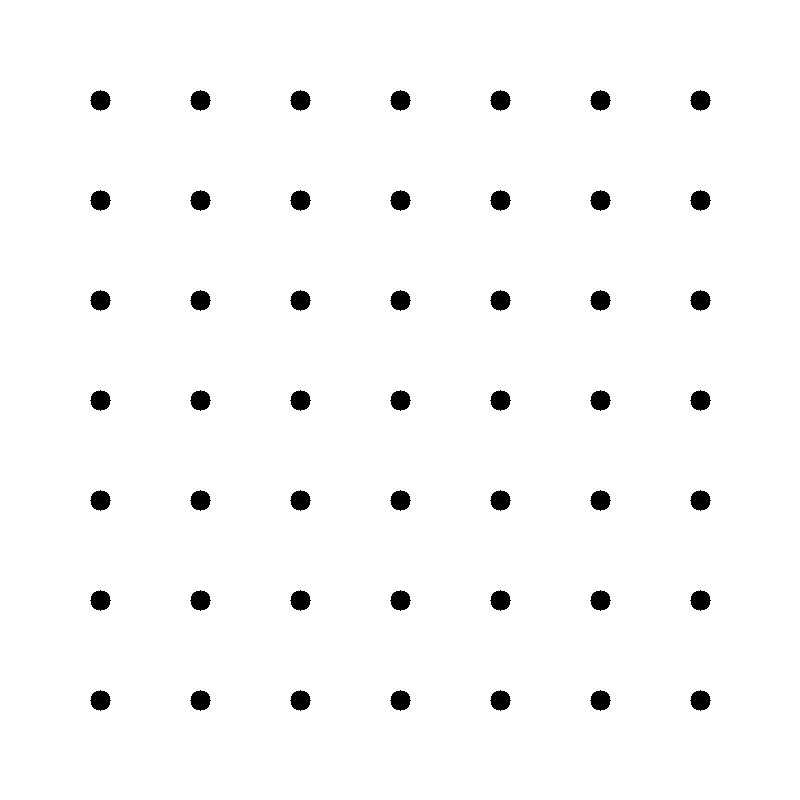
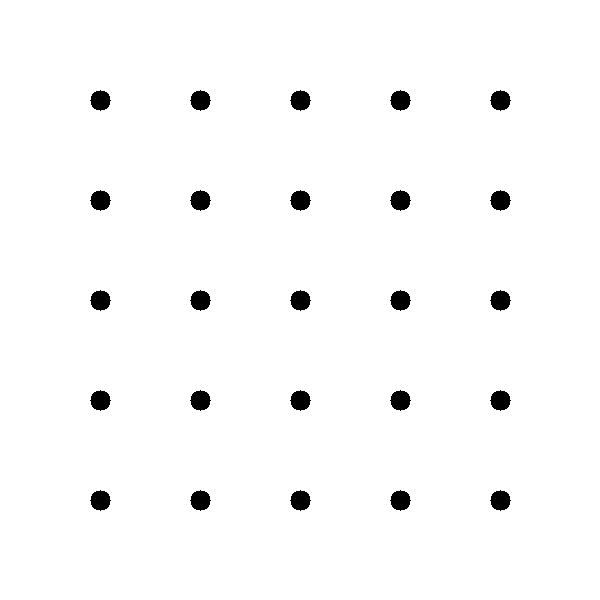
day 1 journal final

diff --git a/src/fake_generator.py b/src/fake_generator.py
@@ -12,6 +12,6 @@ def make_dot_grid(n, spacing=100, margin=100, radius=10):
     return img
 
 if __name__ == "__main__":
-    img = make_dot_grid(7)
+    img = make_dot_grid(5)
     cv2.imwrite("data/fake_5x5.png", img)
-    print("saved. True dot count =", 7* 7)
+    print("saved. True dot count =", 5* 5)

diff --git a/docs/journal/day1.md b/docs/journal/day1.md
@@ -2,8 +2,6 @@
 
 Project: Kolam AI | Course: Societal Based Mini Project (24AIM57) | Student: Tejasree E
 
-> Draft. Fill the one [bracket] left, then rewrite any line in your own words.
-
 ## 1. Goal of today
 
 - Set up the project and get a small dataset
@@ -20,13 +18,13 @@ Project: Kolam AI | Course: Societal Based Mini Project (24AIM57) | Student: Tej
 
 ## 3. How it works in plain words
 
-- The computer turns the picture grey, then blurs it a little so tiny specks vanish
-- It turns every pixel into black or white (Otsu picks the cut-off by itself)
-- The colours are flipped so the dots become white, because OpenCV only finds white shapes
-- It gives every white shape a number and records its size and centre
-- Every shape faces 3 questions: right size, square-ish, round? Any "no" and it is rejected
-- The long kolam curve fails the size test, so only the dots survive
-- A red circle is drawn on each dot and the dots are counted
+- First the computer makes the picture grey and blurs it little bit, so the tiny specks goes away
+- Then every pixel becomes black or white, Otsu decides the cut-off by itself, I dont have to pick
+- I flip the colours so the dots becomes white, because OpenCV can find only white shapes
+- Every white shape gets a number, and the computer notes its size and centre
+- Each shape has to pass 3 questions: is the size right, is it square-ish, is it round. If any one is "no", it is rejected
+- The long kolam curve is too big, so it fails the size test and only the dots are left
+- At last a red circle is drawn on every dot and the dots are counted
 
 ## 4. What broke and how I fixed it
 
@@ -46,5 +44,6 @@ Project: Kolam AI | Course: Societal Based Mini Project (24AIM57) | Student: Tej
 ## Checkpoints
 
 - Dots found on all 4 digital images: yes
-- Fake image correct: [confirm: 25 dots found on `fake_5x5.png`]
-- Gate (80% on real images): passed, so Plan A (OpenCV detection) stays and Plan B (fixed grid) is not needed
+- Fake image correct: yes, 25 dots found on `fake_5x5.png`
+- Gate (dot detection on real images): passed. 4 of 4 images, 9 of 9 dots each, so Plan A (OpenCV detection) stays and Plan B (fixed grid) is not needed
+- "10 random images match their labels": not done. I changed the plan and decided to test the whole pipeline on only 4 images first. The labeling CSV and more images will come after all stages work
